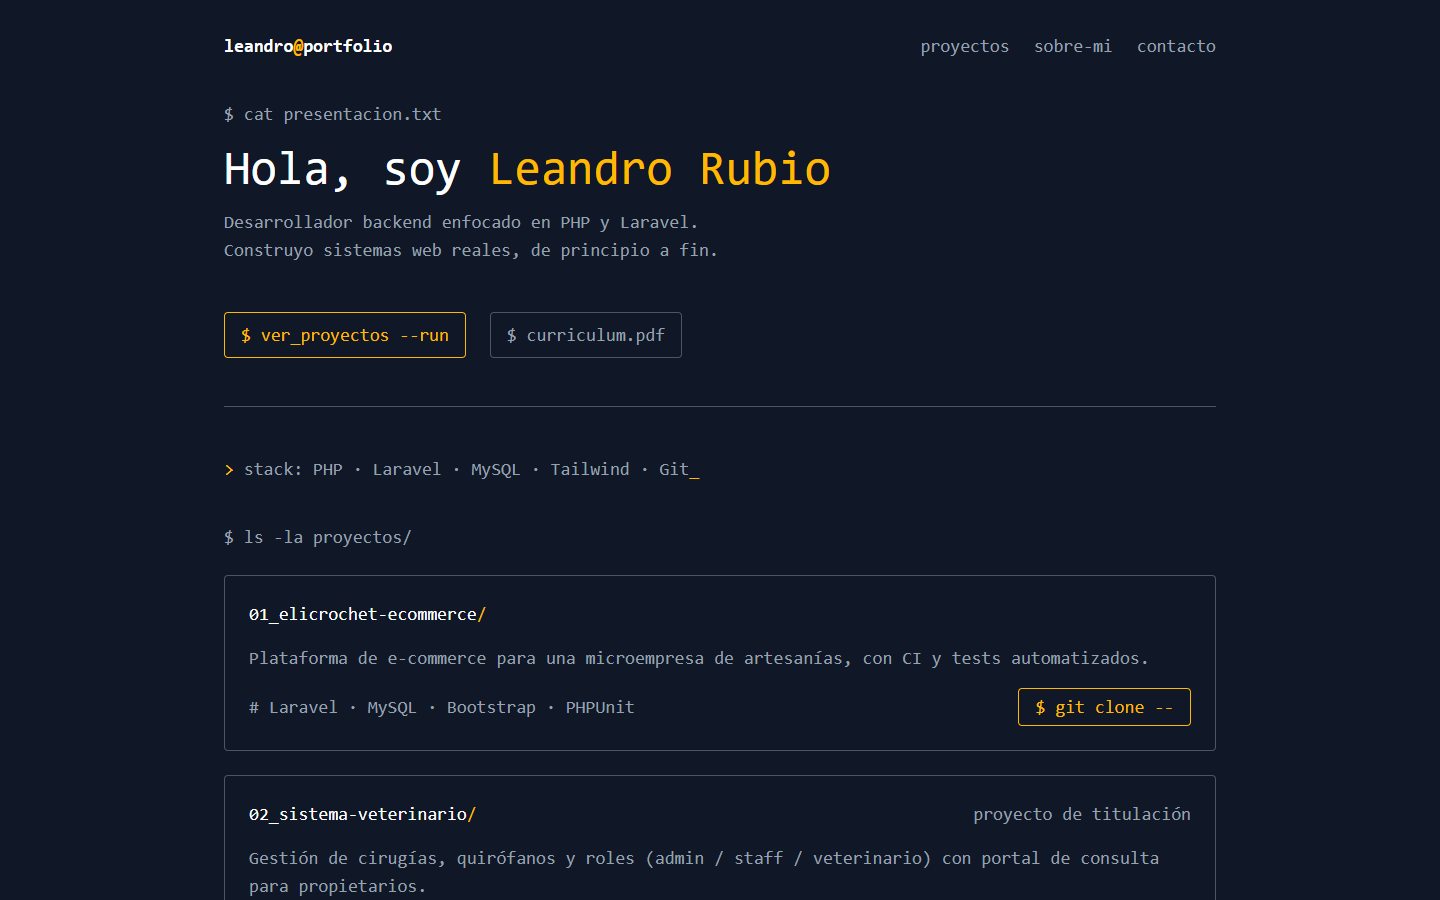
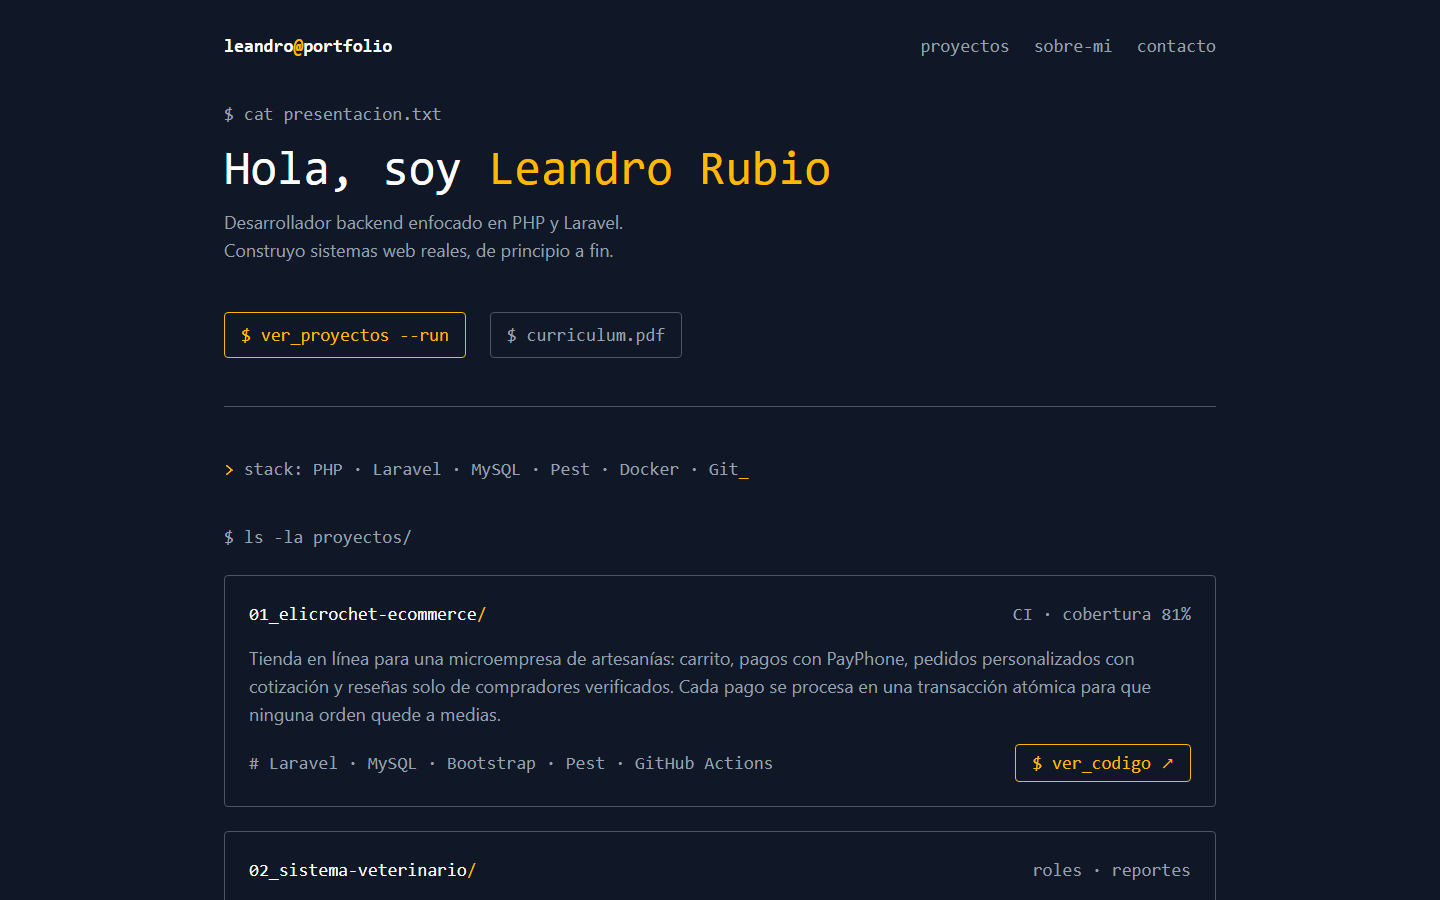
feat: clickable project cards, experience section and clearer copy

diff --git a/index.html b/index.html
@@ -14,7 +14,7 @@
     <meta property="og:type" content="website">
     <meta property="og:title" content="Leandro Rubio — Desarrollador Backend">
     <meta property="og:description"
-        content="Portafolio con proyectos reales en Laravel y PHP: sistema de gestión veterinaria y plataforma de e-commerce.">
+        content="Portafolio con proyectos reales en Laravel y PHP: e-commerce con pagos en línea, sistema de gestión veterinaria y una landing para un servicio técnico.">
     <meta property="og:image" content="https://leandrorubio-73456.github.io/portafolio/assets/og-image.png">
     <meta property="og:url" content="https://leandrorubio-73456.github.io/portafolio/">
 
@@ -37,6 +37,7 @@
         <nav class="flex gap-6 text-gray-400">
             <a href="#proyectos" class="hover:text-white hover:underline">proyectos</a>
             <a href="#sobre-mi" class="hover:text-white hover:underline">sobre-mi</a>
+            <a href="#experiencia" class="hover:text-white hover:underline">experiencia</a>
             <a href="#contacto" class="hover:text-white hover:underline">contacto</a>
         </nav>
     </header>
@@ -47,8 +48,9 @@
             <div class="flex flex-col gap-4 mb-6">
                 <span class="text-gray-400">$ cat presentacion.txt</span>
                 <h1 class="text-3xl sm:text-5xl">Hola, soy <span class="text-amber-400">Leandro Rubio</span></h1>
-                <p class="block text-gray-400">Desarrollador backend enfocado en PHP y Laravel. <br>
-                    Construyo sistemas web reales, de principio a fin.</p>
+                <p class="block font-sans text-gray-400">Desarrollador backend (PHP · Laravel). <br>
+                    Antes de programar pasé 3 años en soporte técnico, así que construyo sistemas pensando en quien
+                    los usa.</p>
             </div>
             <div class="flex flex-col sm:flex-row gap-4 sm:gap-6 mb-6">
                 <a href="#proyectos"
@@ -59,76 +61,103 @@
                     curriculum.pdf</a>
             </div>
             <hr class="border-gray-600 mb-6">
-            <code class="block text-amber-400">> <span class="text-gray-400">stack: PHP · Laravel · MySQL · Tailwind · Git</span>_
+            <code class="block text-amber-400">> <span class="text-gray-400">stack: PHP · Laravel · MySQL · Pest · Docker · Git</span><span class="motion-safe:animate-blink">_</span>
             </code>
         </section>
 
         <!--PROJECTS SECTION-->
+        <!-- Cada tarjeta es clicable: el enlace del título se estira sobre toda la tarjeta (after:inset-0)
+             y los botones quedan por encima con relative z-10. -->
         <section id="proyectos" class="flex flex-col gap-6 pb-10">
             <h2 class="text-gray-400">$ ls -la proyectos/</h2>
 
             <ul class="flex flex-col gap-6">
-                <li class="p-6 border border-gray-600 rounded hover:border-gray-400 transition-colors">
+                <li
+                    class="relative p-6 border border-gray-600 rounded hover:border-gray-400 focus-within:border-gray-400 transition-colors">
                     <div class="flex flex-col sm:flex-row sm:justify-between gap-1 mb-4">
-                        <h3>01_elicrochet-ecommerce<span class="text-amber-400">/</span></h3>
+                        <h3><a href="proyectos/elicrochet.html"
+                                class="after:absolute after:inset-0 hover:underline">01_elicrochet-ecommerce<span
+                                    class="text-amber-400">/</span></a></h3>
+                        <span class="text-gray-400">demo en vivo · cobertura 81%</span>
                     </div>
-                    <p class="text-gray-400 mb-4">Plataforma de e-commerce para una microempresa de artesanías, con CI y
-                        tests automatizados.</p>
+                    <p class="font-sans text-gray-400 mb-4">Tienda en línea para una microempresa de artesanías: carrito,
+                        pagos con PayPhone, pedidos personalizados con cotización y reseñas solo de compradores
+                        verificados. Cada pago se procesa en una transacción atómica para que ninguna orden quede a
+                        medias.</p>
                     <div class="flex flex-col sm:flex-row sm:justify-between sm:items-center gap-3">
-                        <span class="text-gray-400"># Laravel · MySQL · Bootstrap · PHPUnit</span>
-                        <a href="https://github.com/LeandroRubio-73456/elicrochet-ecommerce" target="_blank"
-                            rel="noopener noreferrer"
-                            class="text-amber-400 border border-amber-400 rounded px-4 py-1 hover:text-amber-300 hover:border-amber-300 transition-colors">$
-                            git clone --</a>
+                        <span class="text-gray-400"># Laravel · MySQL · Bootstrap · Pest · GitHub Actions</span>
+                        <div class="flex flex-col sm:flex-row gap-3">
+                            <a href="https://elicrochet-demo.onrender.com" target="_blank" rel="noopener noreferrer"
+                                class="relative z-10 text-amber-400 border border-amber-400 rounded px-4 py-1 hover:text-amber-300 hover:border-amber-300 transition-colors">$
+                                ver_demo ↗</a>
+                            <a href="https://github.com/LeandroRubio-73456/elicrochet-ecommerce" target="_blank" rel="noopener noreferrer"
+                                class="relative z-10 text-amber-400 border border-amber-400 rounded px-4 py-1 hover:text-amber-300 hover:border-amber-300 transition-colors">$
+                                ver_codigo ↗</a>
+                        </div>
                     </div>
                 </li>
 
-                <li class="p-6 border border-gray-600 rounded hover:border-gray-400 transition-colors">
+                <li
+                    class="relative p-6 border border-gray-600 rounded hover:border-gray-400 focus-within:border-gray-400 transition-colors">
                     <div class="flex flex-col sm:flex-row sm:justify-between gap-1 mb-4">
-                        <h3>02_sistema-veterinario<span class="text-amber-400">/</span></h3>
-                    </div>
-                    <p class="text-gray-400 mb-4">Gestión de cirugías, quirófanos y roles (admin / staff / veterinario)
-                        con portal de consulta para propietarios.</p>
-                    <div class="flex flex-col sm:flex-row sm:justify-between sm:items-center gap-3">
-                        <span class="text-gray-400"># Laravel · MySQL · Blade · Alpine.js · Tailwind</span>
-                        <a href="https://github.com/LeandroRubio-73456/clinica-veterinaria" target="_blank"
-                            rel="noopener noreferrer"
-                            class="text-amber-400 border border-amber-400 rounded px-4 py-1 hover:text-amber-300 hover:border-amber-300 transition-colors">$
-                            git clone --</a>
-                    </div>
-                </li>
-                <li class="p-6 border border-gray-600 rounded hover:border-gray-400 transition-colors">
-                    <div class="flex flex-col sm:flex-row sm:justify-between gap-1 mb-4">
-                        <h3>03_tecnosoluciones<span class="text-amber-400">/</span></h3>
+                        <h3><a href="proyectos/clinica-veterinaria.html"
+                                class="after:absolute after:inset-0 hover:underline">02_sistema-veterinario<span
+                                    class="text-amber-400">/</span></a></h3>
                         <span class="text-gray-400">demo en vivo</span>
                     </div>
-                    <p class="text-gray-400 mb-4">Landing page para un servicio técnico en Quito, con una orden de
-                        servicio interactiva que arma el pedido y lo envía por WhatsApp.</p>
+                    <p class="font-sans text-gray-400 mb-4">Agenda de cirugías que impide cruces de veterinario, quirófano
+                        y horario mediante transacciones con bloqueo. Incluye roles y permisos dinámicos, portal para
+                        propietarios, reportes exportables a CSV y PDF, y recordatorios automáticos por correo.</p>
+                    <div class="flex flex-col sm:flex-row sm:justify-between sm:items-center gap-3">
+                        <span class="text-gray-400"># Laravel · MySQL · Alpine.js · Tailwind · Pest</span>
+                        <div class="flex flex-col sm:flex-row gap-3">
+                            <a href="https://clinica-veterinaria-demo.onrender.com" target="_blank" rel="noopener noreferrer"
+                                class="relative z-10 text-amber-400 border border-amber-400 rounded px-4 py-1 hover:text-amber-300 hover:border-amber-300 transition-colors">$
+                                ver_demo ↗</a>
+                            <a href="https://github.com/LeandroRubio-73456/clinica-veterinaria" target="_blank" rel="noopener noreferrer"
+                                class="relative z-10 text-amber-400 border border-amber-400 rounded px-4 py-1 hover:text-amber-300 hover:border-amber-300 transition-colors">$
+                                ver_codigo ↗</a>
+                        </div>
+                    </div>
+                </li>
+
+                <li
+                    class="relative p-6 border border-gray-600 rounded hover:border-gray-400 focus-within:border-gray-400 transition-colors">
+                    <div class="flex flex-col sm:flex-row sm:justify-between gap-1 mb-4">
+                        <h3><a href="proyectos/tecnosoluciones.html"
+                                class="after:absolute after:inset-0 hover:underline">03_tecnosoluciones<span
+                                    class="text-amber-400">/</span></a></h3>
+                        <span class="text-gray-400">demo en vivo</span>
+                    </div>
+                    <p class="font-sans text-gray-400 mb-4">Landing page para un servicio técnico en Quito que solo atiende por
+                        WhatsApp. Una orden de servicio interactiva arma el pedido con los datos que el
+                        técnico necesita y abre WhatsApp con el mensaje listo.</p>
                     <div class="flex flex-col sm:flex-row sm:justify-between sm:items-center gap-3">
                         <span class="text-gray-400"># React · Vite · Tailwind</span>
                         <div class="flex flex-col sm:flex-row gap-3">
-                            <a href="https://tecnosoluciones-5t8.pages.dev/" target="_blank"
-                                rel="noopener noreferrer"
-                                class="text-amber-400 border border-amber-400 rounded px-4 py-1 hover:text-amber-300 hover:border-amber-300 transition-colors">$
-                                open --demo</a>
+                            <a href="https://tecnosoluciones-5t8.pages.dev/" target="_blank" rel="noopener noreferrer"
+                                class="relative z-10 text-amber-400 border border-amber-400 rounded px-4 py-1 hover:text-amber-300 hover:border-amber-300 transition-colors">$
+                                ver_demo ↗</a>
                             <a href="https://github.com/LeandroRubio-73456/tecnosoluciones" target="_blank"
                                 rel="noopener noreferrer"
-                                class="text-amber-400 border border-amber-400 rounded px-4 py-1 hover:text-amber-300 hover:border-amber-300 transition-colors">$
-                                git clone --</a>
+                                class="relative z-10 text-amber-400 border border-amber-400 rounded px-4 py-1 hover:text-amber-300 hover:border-amber-300 transition-colors">$
+                                ver_codigo ↗</a>
                         </div>
                     </div>
                 </li>
             </ul>
-            <span class="text-gray-400">3 directories, 0 pendientes<span class="text-amber-400">_</span></span>
+            <span class="text-gray-400">3 directories, 0 pendientes<span
+                    class="text-amber-400 motion-safe:animate-blink">_</span></span>
         </section>
 
         <!--ABOUT ME SECTION-->
         <section id="sobre-mi" class="flex flex-col gap-6 pb-10">
             <h2 class="text-gray-400">$ whoami --verbose</h2>
             <div class="flex flex-col md:flex-row gap-6 md:gap-0">
-                <div class="md:basis-3/5 md:border-e md:pe-6 border-gray-600">
-                    <p class="pb-4">Tecnólogo en Desarrollo de Software, con años de experiencia previa en soporte
-                        técnico y atención al cliente antes de dedicarme de lleno a programar.</p>
+                <div class="font-sans md:basis-3/5 md:border-e md:pe-6 border-gray-600">
+                    <p class="pb-4">Tecnólogo en Desarrollo de Software y bachiller técnico en informática. Antes de
+                        dedicarme de lleno a programar pasé más de 3 años del lado del usuario: soporte técnico, venta
+                        de equipos y atención al cliente.</p>
                     <p class="text-gray-400">
                         Eso me dejó algo que muchos devs junior no tienen todavía: entender de primera mano lo que un
                         usuario real necesita, no solo lo que el código permite.</p>
@@ -142,29 +171,71 @@
                         </div>
                         <div class="flex gap-2">
                             <dt class="text-amber-400">frontend:</dt>
-                            <dd>Tailwind, Alpine.js</dd>
+                            <dd>Blade, Tailwind, Alpine.js, React</dd>
+                        </div>
+                        <div class="flex gap-2">
+                            <dt class="text-amber-400">testing:</dt>
+                            <dd>Pest, PHPUnit, GitHub Actions</dd>
                         </div>
                         <div class="flex gap-2">
                             <dt class="text-amber-400">tools:</dt>
-                            <dd>Git, Docker</dd>
-                        </div>
-                        <div class="flex gap-2">
-                            <dt class="text-amber-400">soft_skills:</dt>
-                            <dd>soporte, trato con clientes</dd>
+                            <dd>Git, Docker, Laravel Sail</dd>
                         </div>
                     </dl>
                 </div>
             </div>
             <hr class="border-gray-600">
             <code
-                class="block text-amber-400">> <span class="text-gray-400">ubicación: Quito, Ecuador · disponible para nuevos proyectos</span>_</code>
+                class="block text-amber-400">> <span class="text-gray-400">ubicación: Quito, Ecuador · disponible para nuevos proyectos</span><span class="motion-safe:animate-blink">_</span></code>
+        </section>
+
+        <!--EXPERIENCE SECTION-->
+        <section id="experiencia" class="flex flex-col gap-6 pb-10">
+            <h2 class="text-gray-400">$ cat experiencia.log</h2>
+            <ol class="flex flex-col gap-4">
+                <li class="flex flex-col sm:flex-row gap-1 sm:gap-6">
+                    <span class="text-amber-400 sm:basis-40 shrink-0">2025</span>
+                    <div>
+                        <h3>Pasante de TICs · Hospital General del Sur de Quito</h3>
+                        <p class="font-sans text-gray-400">Soporte técnico a equipos y redes internas, mantenimiento
+                            preventivo y correctivo, configuración de sistemas y documentación de incidencias.</p>
+                    </div>
+                </li>
+                <li class="flex flex-col sm:flex-row gap-1 sm:gap-6">
+                    <span class="text-amber-400 sm:basis-40 shrink-0">2021 – 2024</span>
+                    <div>
+                        <h3>Ventas y soporte técnico · TecnoSoluciones</h3>
+                        <p class="font-sans text-gray-400">Venta de equipos y accesorios, diagnóstico, mantenimiento e
+                            instalación de software. Hoy construyo la presencia web del negocio.</p>
+                    </div>
+                </li>
+            </ol>
+            <a href="assets/curriculum.pdf" target="_blank" rel="noopener noreferrer"
+                class="text-gray-400 hover:text-white hover:underline"># trayectoria completa en curriculum.pdf ↗</a>
+
+            <h2 class="text-gray-400 pt-4">$ cat formacion.log</h2>
+            <ol class="flex flex-col gap-4">
+                <li class="flex flex-col sm:flex-row gap-1 sm:gap-6">
+                    <span class="text-amber-400 sm:basis-40 shrink-0">2023 – 2026</span>
+                    <div>
+                        <h3>Tecnología en Desarrollo de Software</h3>
+                        <p class="font-sans text-gray-400">Instituto Superior Universitario "Sucre" · Quito</p>
+                    </div>
+                </li>
+                <li class="flex flex-col sm:flex-row gap-1 sm:gap-6">
+                    <span class="text-amber-400 sm:basis-40 shrink-0">2023</span>
+                    <div>
+                        <h3>Bachiller técnico, especialidad informática</h3>
+                        <p class="font-sans text-gray-400">Academia Aeronáutica "Mayor Pedro Traversari" · Quito</p>
+                    </div>
+                </li>
+            </ol>
         </section>
         <!--CONTACT SECTION-->
         <section id="contacto" class="flex flex-col gap-6 pb-10">
             <h2 class="text-gray-400">$ mail --compose --to=leandro</h2>
-            <h3 class="text-3xl">Hablemos de tu <span class="text-amber-400">proyecto</span></h3>
-            <p class="text-gray-400 max-w-xl">Disponible para prácticas, proyectos freelance o una oportunidad junior.
-                Respondo rápido.</p>
+            <h3 class="text-3xl">¿Trabajamos <span class="text-amber-400">juntos</span>?</h3>
+            <p class="font-sans text-gray-400 max-w-xl">Disponible para un empleo junior o proyectos freelance. Respondo rápido.</p>
             <dl class="flex flex-col gap-4">
                 <div
                     class="flex flex-col sm:flex-row sm:justify-between gap-1 p-4 border border-gray-600 rounded hover:border-gray-400 transition-colors">
@@ -183,7 +254,7 @@
                     class="flex flex-col sm:flex-row sm:justify-between gap-1 p-4 border border-gray-600 rounded hover:border-gray-400 transition-colors">
                     <dt>--linkedin</dt>
                     <dd class="text-amber-400 break-all"><a href="https://www.linkedin.com/in/leandro-rubio-369651367/"
-                            target="_blank" rel="noopener noreferrer">linkedin.com/in/leandro-rubio</a></dd>
+                            target="_blank" rel="noopener noreferrer">linkedin.com/in/leandro-rubio-369651367</a></dd>
                 </div>
             </dl>
             <a href="mailto:leandrorubio456@gmail.com"
@@ -195,7 +266,7 @@
 
     <footer>
         <p class="text-gray-400 text-center">© 2026 leandro_rubio · built with html &amp; tailwind<span
-                class="text-amber-400">_</span></p>
+                class="text-amber-400 motion-safe:animate-blink">_</span></p>
     </footer>
 </body>
 

diff --git a/README.md b/README.md
@@ -34,7 +34,8 @@ Un perfil de GitHub muestra repositorios, pero no cuenta qué hace cada uno ni q
 
 ## Funciones principales
 
-- **Proyectos** con descripción, stack y enlace directo a cada repositorio.
+- **Proyectos** con descripción, stack y enlace directo a cada repositorio. Cada tarjeta es clicable y lleva a una página propia del proyecto.
+- **Página por proyecto** con contexto, capturas, funciones, decisiones técnicas y calidad (pruebas y CI).
 - **CV descargable** en PDF.
 - **Diseño responsive** (mobile-first) con estética de terminal, coherente con un perfil backend.
 - **SEO y vista previa al compartir:** meta tags, Open Graph e imagen propia para LinkedIn y redes.
@@ -75,11 +76,12 @@ npx serve .
 ## Estructura del proyecto
 
 ```
-├── index.html          # Todo el contenido del sitio
+├── index.html          # Página principal
+├── proyectos/          # Una página por proyecto
 ├── src/
 │   ├── input.css       # Entrada de Tailwind
 │   └── output.css      # CSS compilado (lo que carga index.html)
-├── assets/             # CV, imagen Open Graph y favicons
+├── assets/             # CV, imagen Open Graph, favicons y capturas de proyectos (assets/proyectos/)
 └── docs/screenshots/   # Capturas para este README
 ```
 
